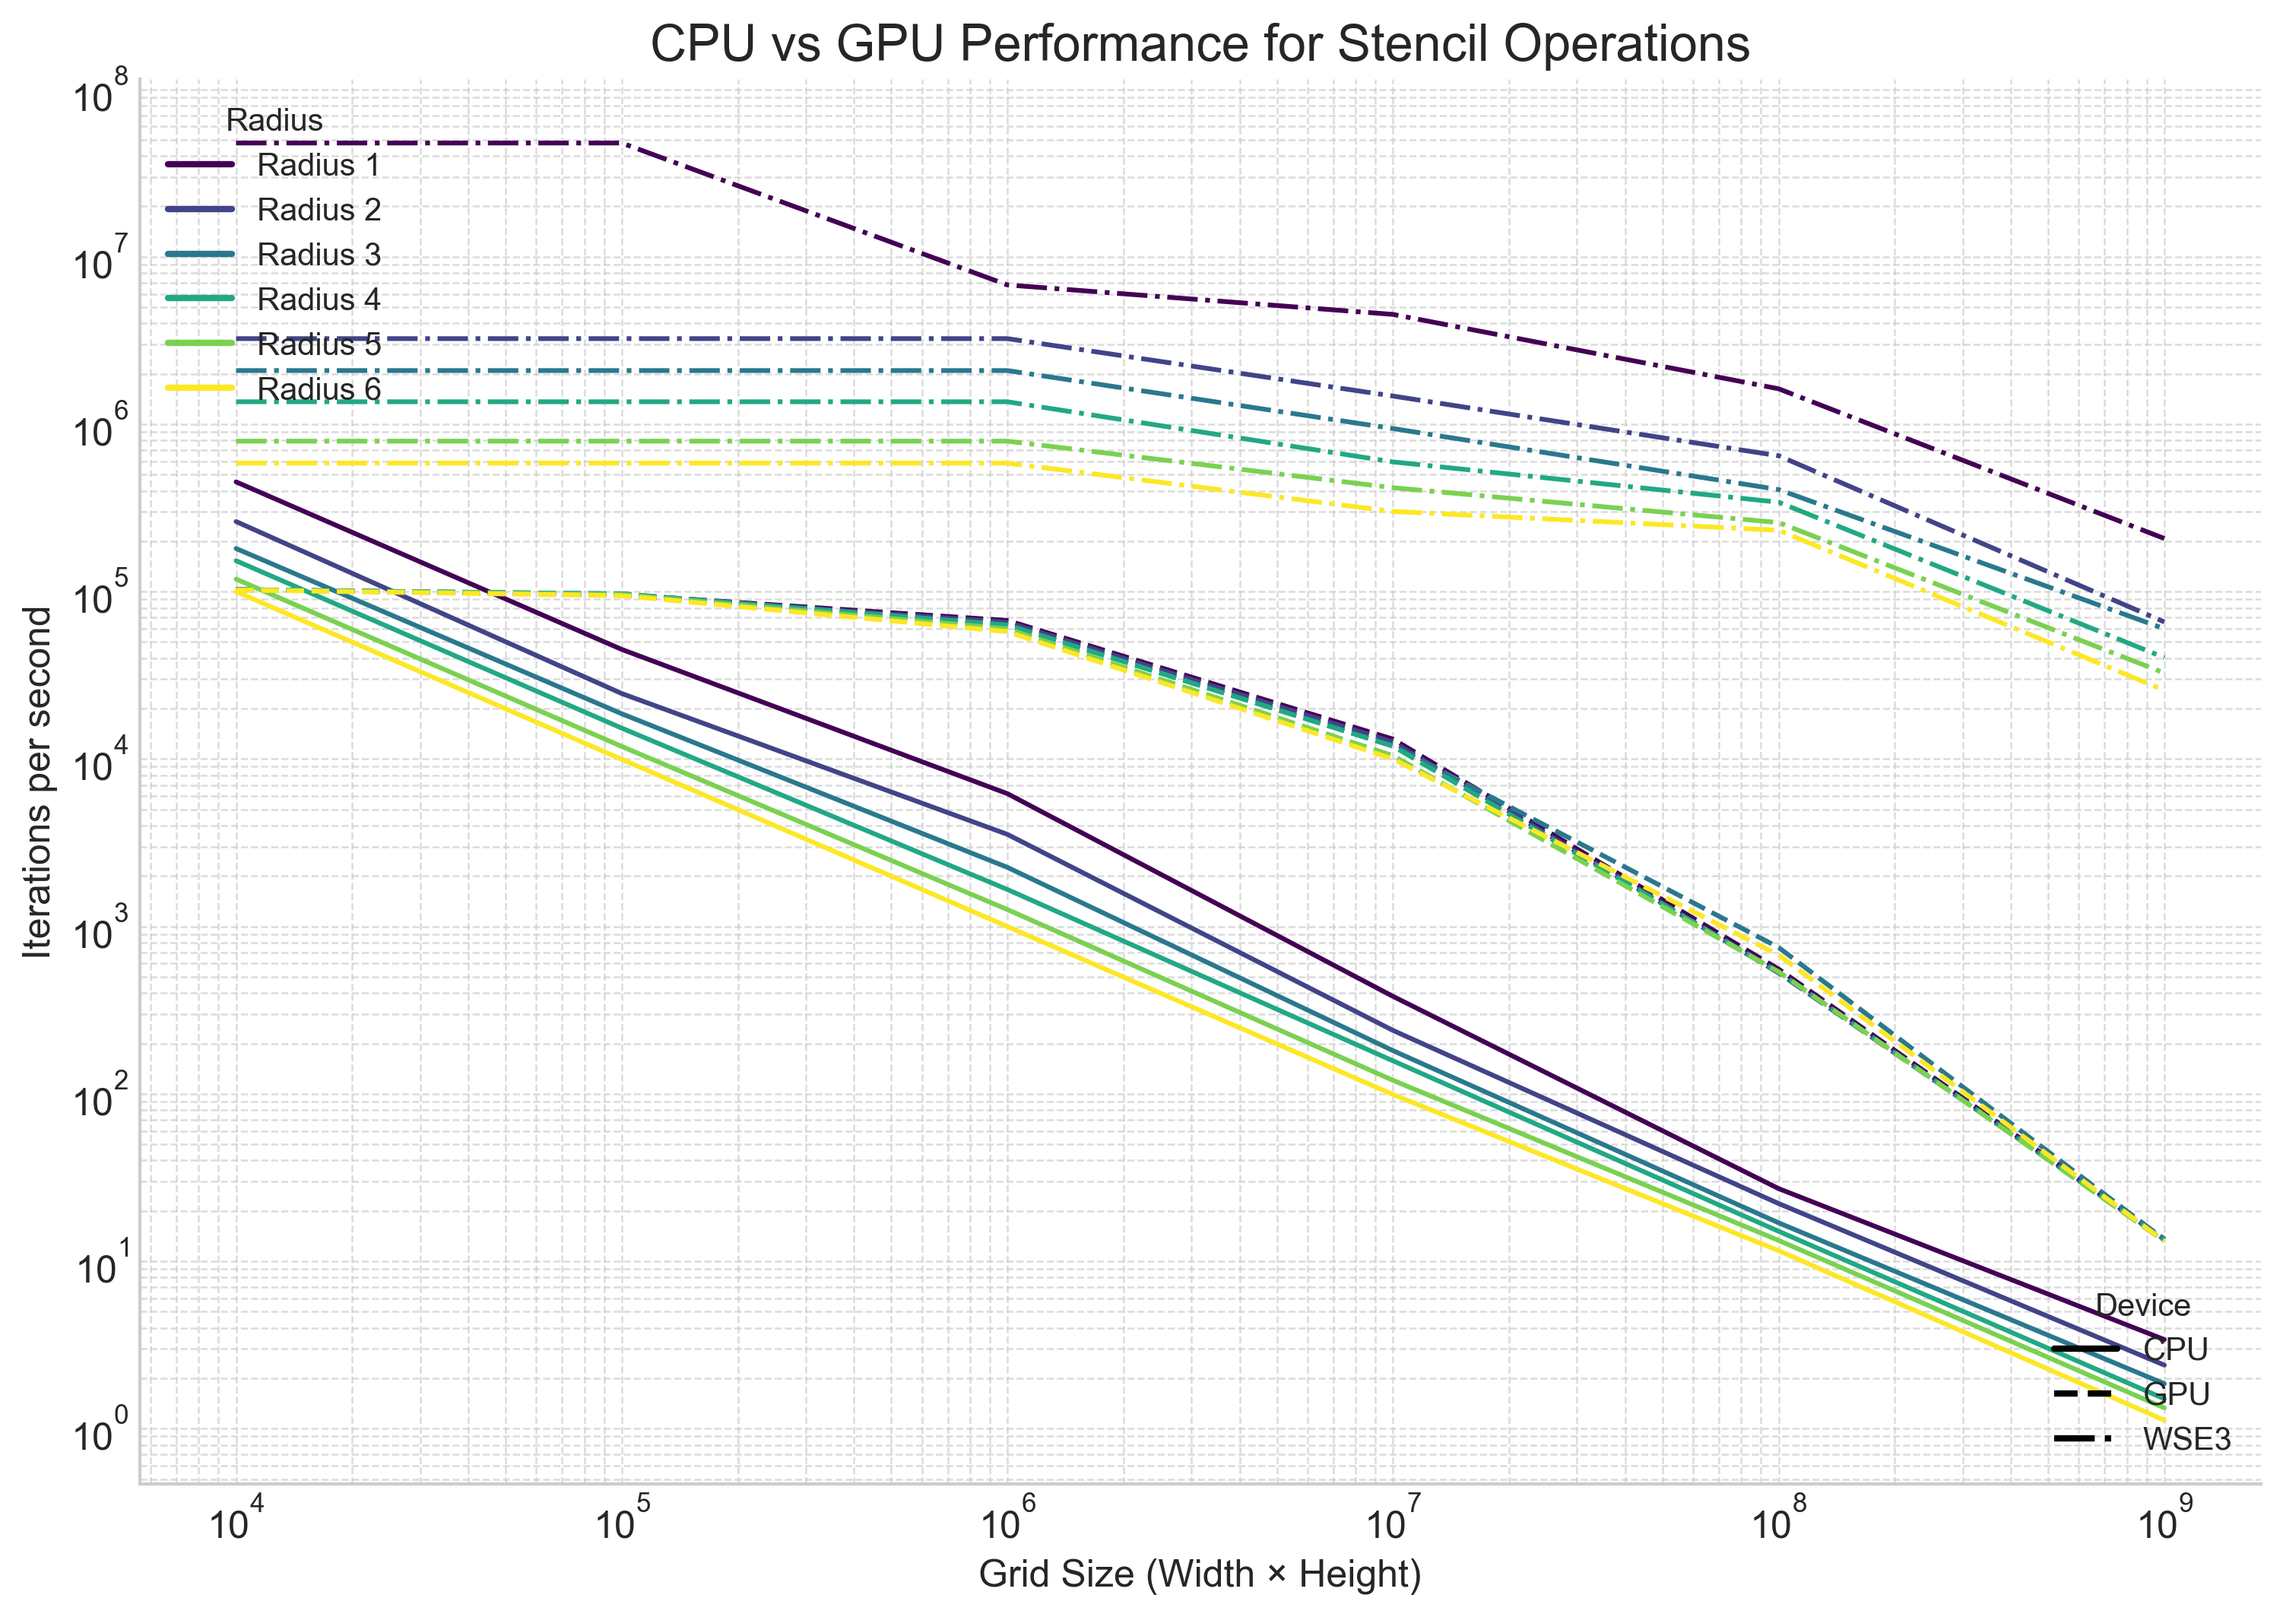
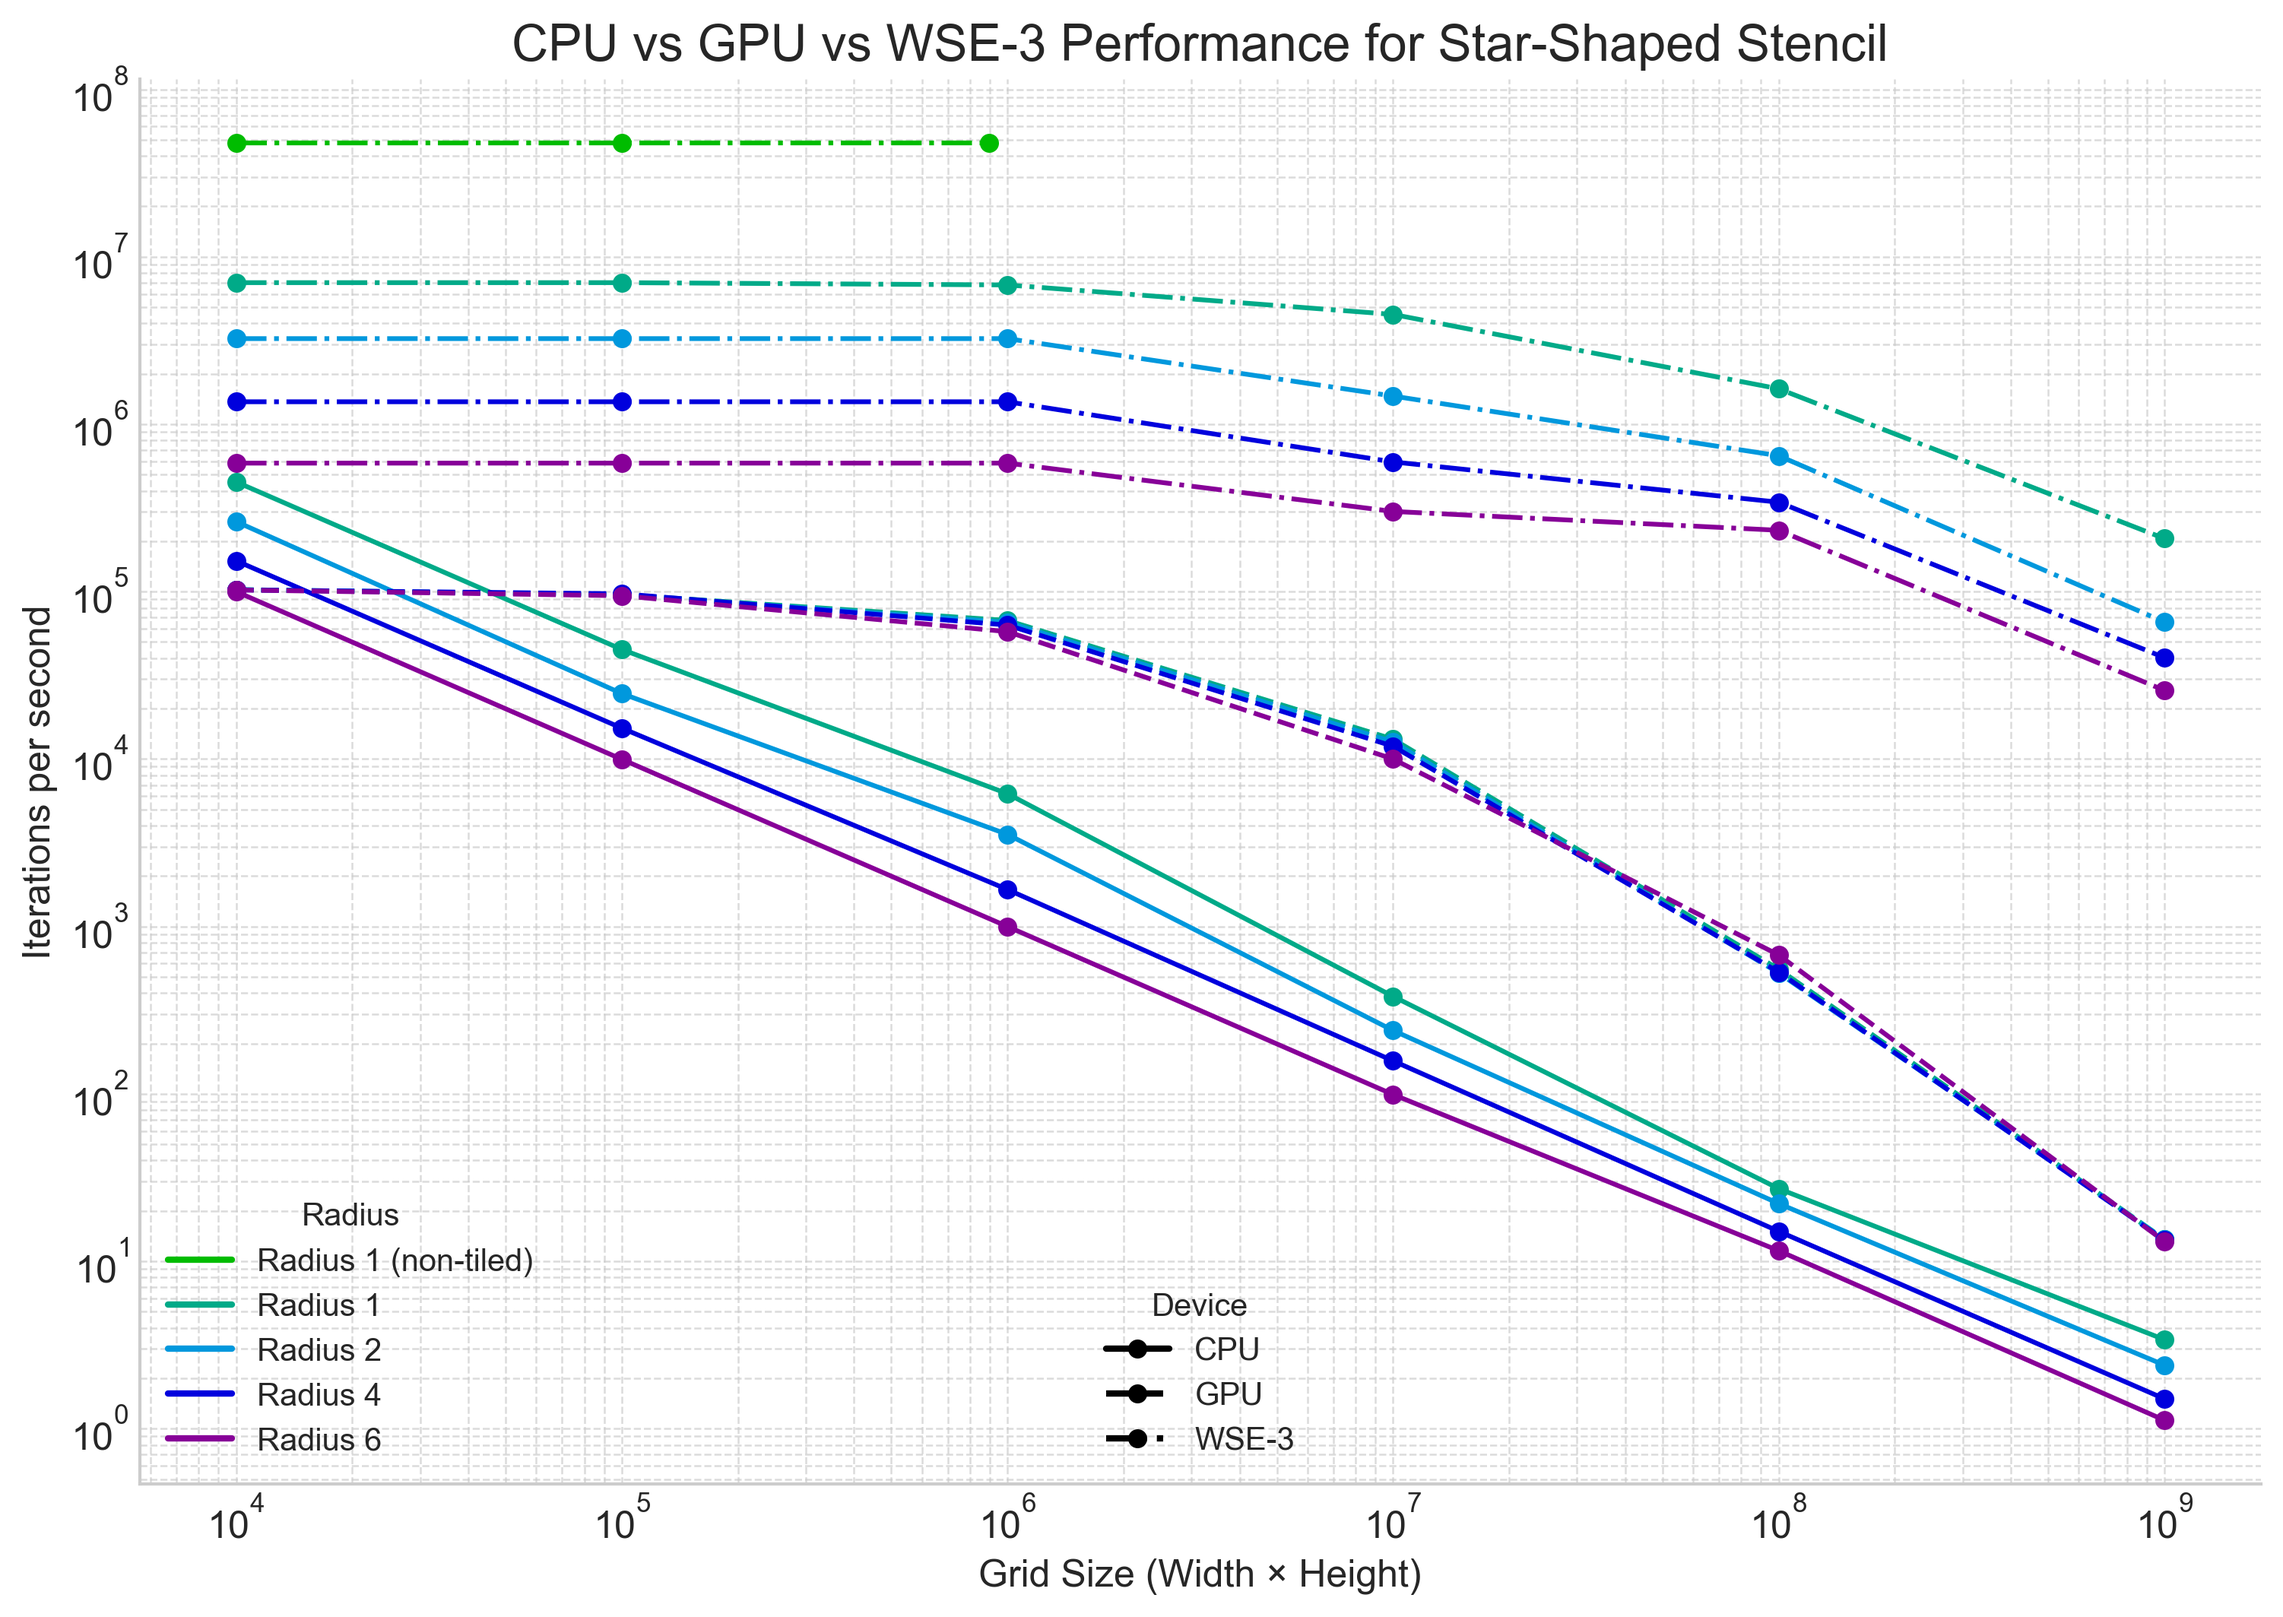
finalize big comparison experiment

diff --git a/03_Content/6_Experiments.tex b/03_Content/6_Experiments.tex
@@ -119,6 +119,7 @@ Furthermore, we calculated the neccessary tile size to fit the same grid sizes o
 Assuming perfect scaling accross the WSE as suggested by the results from \autoref{sec:pe_overhead}, we used this cycle count together with the \ac{wse}s clock frequency to calculate the total time for $10^{10-x}$ iterations.
 We also added the time, the non-tiled algorithm would take on the \ac{wse}-3 for the respective number of iterations where the \ac{wse}-3s hardware dimensions allow for the grid size.
 As the $width$ and $height$, we strictly used powers of 10, resulting in rectangular grids for odd $x$.
+To have all experiments use \numproduct{5 x 5} active \acp{pe} in the simulator, we used a grid size of \roundbrack{3\times t_w + 2r, 3\times t_h + 2r}.
 
 To ensure the entire problem grid fits onto the available \acp{pe} of the \ac{wse}, the tile size ($t_w$, $t_h$) for a given grid of size ($G_w$, $G_h$) on a \ac{wse} with physical dimensions ($P_w$, $P_h$) is determined by:
 \begin{equation}
@@ -126,6 +127,22 @@ To ensure the entire problem grid fits onto the available \acp{pe} of the \ac{ws
 \end{equation}
 
 For example, to map the \numproduct{10^3 \times 10^4} grid onto the \ac{wse}-3 with its \numproduct{762 \times 1176} \acp{pe} array, we calculate the tile size. Mapping the grid's width to the \acp{pe} array's width results in a tile width of $\left\lceil \frac{1000}{762} \right\rceil = 2$ and a tile height of $\left\lceil \frac{10000}{1176} \right\rceil = 9$. However, mapping the grid's width to the \acp{pe} array's height is more efficient, yielding a tile width of $\left\lceil \frac{1000}{1176} \right\rceil = 1$ and a tile height of $\left\lceil \frac{10000}{762} \right\rceil = 14$. To minimize the total tile area and therefore the per-\ac{pe} workload, we chose the smaller configuration of $1 \times 14$. It is important to note that due to the radius constraint from \autoref{eq:radius_constraint}, the shorter dimension of the tile must be at least as large as the radius, so the effective tile size was adjusted accordingly if necessary.
+
+\begin{table}[h]
+    \centering
+    \caption{Final parameters for the experiment in the simulator for a grid size of \num{1e7}}
+    \begin{tabular}{ll}
+        \hline
+        Parameter & Value \\
+        \hline
+        Grid size & \numproduct{5 x 44} \\
+        Tile size & \numproduct{1 x 14} \\
+        Radius & \num{1} \\
+        Number of iterations & \num{2} and \num{4} \\
+        \hline
+    \end{tabular}
+    \label{tab:sim_params}
+\end{table}
 
 \begin{figure}[h]
     \centering
@@ -147,25 +164,26 @@ The results show that for most tested configurations, the \ac{gpu} outperforms t
 However for very small tile sizes of \numproduct{100 x 100} and large iteration counts of $\num{1e6}$, the \ac{cpu} is faster.
 
 The \ac{wse}-3 is very sensitive to both the work allocation and the radius. The sensitivity to radius is significant accross all grid sizes with a factor of \num{12.0} between radius \num{1} and \num{6} for a grid of \num{1e4} and factor of \num{8.1} between radius \num{1} and \num{6} for a grid of \num{1e9}.
-The more than linear scaling for small grid sizes can be explained by the fact that these problems use a tile size of \numproduct{1 x 1} for radius \num{1} and \numproduct{6 x 6} for radius \num{6} which is $r^2(10r-1)$.
+The more than linear scaling for small grid sizes can be explained by the fact that these problems use a tile size of \numproduct{1 x 1} for radius \num{1} and \numproduct{6 x 6} for radius \num{6} which results in $r^2(10r-1)$ flops per \ac{pe}. This number rises with the cube of $r$. The 12x now appears relatively low and is caused by communication also playing a major role in the overall time for these small grid sizes. For a grid size of \num{1e9} on the other hand, the tile size is constant for all radii and the scaling is closer to linear with an outlier for radius \num{1}, because this uses the $r1$ optimized tiled algorithm. The factor between radius \num{2} and \num{6} is \num{2.6}.
+
+Analyzing the \ac{wse}-3s performance, we find that the iterations per second (not shown in the plot!) is constant for grids of size \numrange{1e4}{1e6}. Together with the decreased number of iterations for larger grid sizes, this leads to faster runtimes for larger grid sizes. This is because grid sizes smaller than \num{1e6} do not use the whole \ac{wse} dimensions and the scaling to more \acp{pe} comes without performance degradation. Grid sizes from \num{1e6} to \num{1e8} use the whole \ac{wse} and show slower iteration times as the grid size increases, but sublinear. For radius \num{1} the slowdown of time per iteration between grid sizes of \num{1e6} and \num{1e7} is only \num{1.5} and from \num{1e7} to \num{1e8} only \num{2.8}. However starting from \num{1e8} the slowdown is more than linear with a factor of \num{7.8} between \num{1e8} and \num{1e9} for radius \num{1} and \num{9.8} for radius \num{2}. We assume this is because constant overheads are getting less significant relative to the computation at these grid sizes.
+
+The \ac{wse}-3 implementation outperforms the \ac{cpu} and \ac{gpu} for all tested grid sizes and radii with the most significant speedup for the largest grid size of \num{1e9} and radius \num{1} with a speedup of \num{1.5e4} compared to the \ac{gpu} and \num{6.1e4} compared to the \ac{cpu}. Because the runtime for the stencil is independent from the radius on the \ac{gpu}, but not on the \ac{wse}-3, the speedup from \ac{wse}-3 to \ac{gpu} for the same grid size of \num{1e9} and radius \num{6} is significantly smaller at \num{2.0e3}.
 
 
+% As a second experiment, we compared our implementation for a grid size of the \ac{gpu}-optimal $\num{1e7}$ to the optimized \ac{gpu} and \ac{cpu} implementation. To fit a size of $\num{1e3}\times\num{1e4}$ on the \ac{wse}-2 with dimensions of $750\times994$, we need a tile size of at least $2x11$ and on \ac{wse}-3 with dimensions of $762\times1176$ a tile size of at least $14x1$. As shown in the earlier experiments, degrade larger tile sizes always the performance so we used these minimum tile sizes. Because of the radius constraint from \autoref{eq:radius_constraint}, we need to increase the shorter dimension of the tile to the respective radius.
 
+% \begin{figure}[h]
+%     \centering
+%     \includegraphics[width=0.5\linewidth]{cpu_gpu_cerebras_comparison.png}
+%     \caption{Performance comparison across architectures for a $10^3 \times 10^4$ grid. The Cerebras \ac{wse}-3 implementation significantly outperforms the \ac{gpu} (NVIDIA H100) and \ac{cpu} (AMD EPYC 9554) across all radii. While the \ac{gpu} performance is largely insensitive to the stencil radius, indicating a memory-bound workload, the \ac{cpu} and \ac{wse}-3 performance degrades as the computational cost increases.}
+%     \label{fig:cpu_gpu_cerebras_comparison}
+% \end{figure}
 
+% While the times for the \ac{gpu} and \ac{cpu} for this experiment where directly measured, we used the cycle count per iteration from the simulator for a significantly smaller grid size and a small iteration count, assumed perfect scaling to the full \ac{wse} dimensions as suggested from \autoref{sec:pe_overhead}, a constant cycle count per iteration and the clock speed of the \ac{wse} to calculate the time per iteration.
 
+% The speedup for radius 1 from \ac{cpu} to \ac{gpu} is about 40x. From \ac{gpu} to \ac{wse}-3 we observe an even larger speedup of about 358x. As the problem is compute bound on cerebras while it is memory bound on \ac{gpu}, the speedup for radius 4 from \ac{gpu} to \ac{wse}-3 is significantly smaller at about 53x
 
-As a second experiment, we compared our implementation for a grid size of the \ac{gpu}-optimal $\num{1e7}$ to the optimized \ac{gpu} and \ac{cpu} implementation. To fit a size of $\num{1e3}\times\num{1e4}$ on the \ac{wse}-2 with dimensions of $750\times994$, we need a tile size of at least $2x11$ and on \ac{wse}-3 with dimensions of $762\times1176$ a tile size of at least $14x1$. As shown in the earlier experiments, degrade larger tile sizes always the performance so we used these minimum tile sizes. Because of the radius constraint from \autoref{eq:radius_constraint}, we need to increase the shorter dimension of the tile to the respective radius.
-
-\begin{figure}[h]
-    \centering
-    \includegraphics[width=0.5\linewidth]{cpu_gpu_cerebras_comparison.png}
-    \caption{Performance comparison across architectures for a $10^3 \times 10^4$ grid. The Cerebras \ac{wse}-3 implementation significantly outperforms the \ac{gpu} (NVIDIA H100) and \ac{cpu} (AMD EPYC 9554) across all radii. While the \ac{gpu} performance is largely insensitive to the stencil radius, indicating a memory-bound workload, the \ac{cpu} and \ac{wse}-3 performance degrades as the computational cost increases.}
-    \label{fig:cpu_gpu_cerebras_comparison}
-\end{figure}
-
-While the times for the \ac{gpu} and \ac{cpu} for this experiment where directly measured, we used the cycle count per iteration from the simulator for a significantly smaller grid size and a small iteration count, assumed perfect scaling to the full \ac{wse} dimensions as suggested from \autoref{sec:pe_overhead}, a constant cycle count per iteration and the clock speed of the \ac{wse} to calculate the time per iteration.
-
-The speedup for radius 1 from \ac{cpu} to \ac{gpu} is about 40x. From \ac{gpu} to \ac{wse}-3 we observe an even larger speedup of about 358x. As the problem is compute bound on cerebras while it is memory bound on \ac{gpu}, the speedup for radius 4 from \ac{gpu} to \ac{wse}-3 is significantly smaller at about 53x
 
 To evaluate the performance advantage of the specialized non-tiled algorithm, we compare it directly with highly optimized implementations on traditional \ac{hpc} architectures using grid sizes that match the \ac{wse} dimensions. This comparison uses the actual \ac{wse} grid dimensions as the problem size, which represents the maximum grid size achievable with the non-tiled algorithm.
 

diff --git a/Figures/code/plot_gpu_cpu_constant_product.py b/Figures/code/plot_gpu_cpu_constant_product.py
@@ -121,7 +121,7 @@ CLOCK_HZ = 1.1e9  # 1.1 GHz
 MAX_ON_CHIP_GRID = 762 * 1176  # 896 112
 WSE3_NON_TILED_CYCLES_PER_ITERATION = 23
 
-USE_IPS = False
+USE_IPS = True
 
 # Helper to convert cycles → seconds for given grid size
 def cycles_to_time(cycles_per_iter: int, grid_size: float) -> float:
